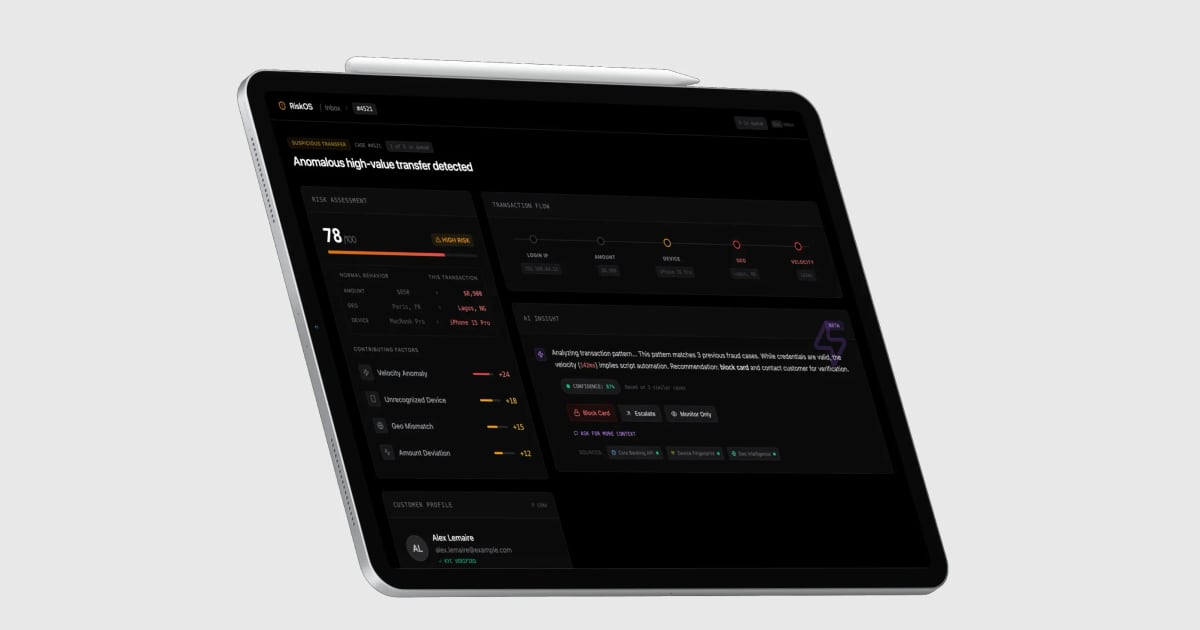
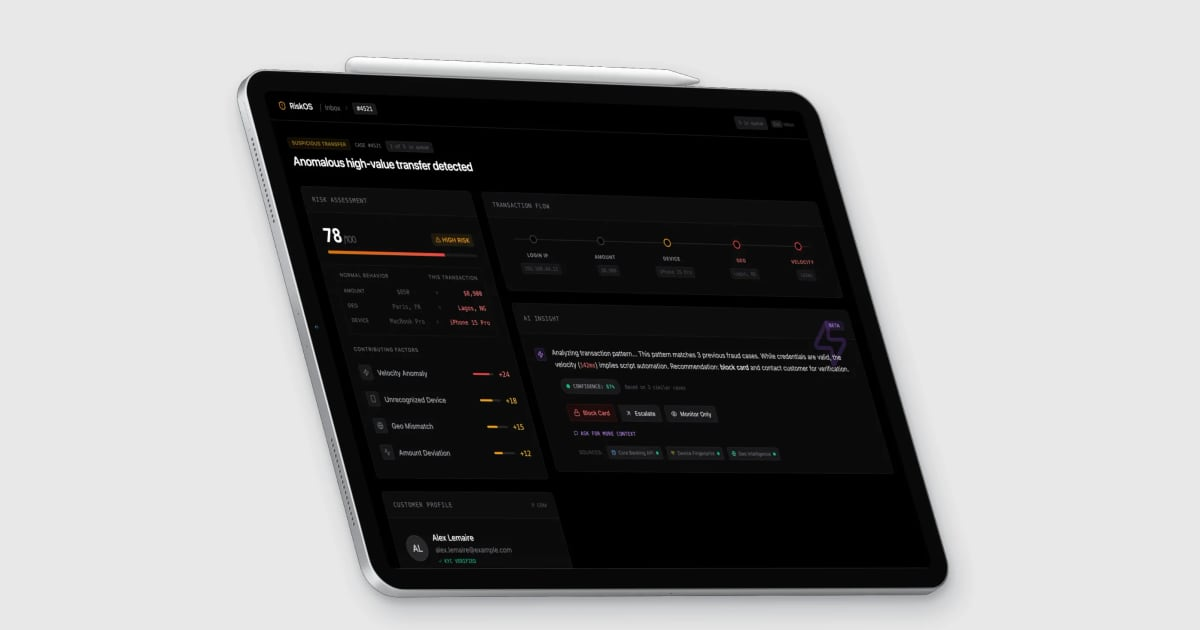
RiskOS on the home strip: whole iPad above the caption, soft cast shadow
- New cover (cover-riskos-ipad-v2): the iPad cut out of its dark ground with two soft shadows under it (ambient and contact), on the stage grey; variants, share image regenerated.
- Home strip: RiskOS framed whole (stripFit contain, smaller, up and to the right) as a transparent cut-out, so the card's own ground shows and no fade crosses the iPad; other cards unchanged.
- HeroLoop projects the screen loop on the picture where the frame draws it (fit, padding, object-position), so the loop stays in the screen whatever the framing.

diff --git a/src/components/media/HeroLoop.tsx b/src/components/media/HeroLoop.tsx
@@ -113,17 +113,6 @@ const SCREEN_W = 1000
 
 export default function HeroLoop({ src, mediaClassName, mediaStyle, mode = 'preview', active = false, screen, overlay }: HeroLoopProps) {
   const wrapRef = useRef<HTMLDivElement>(null)
-  // Size of the frame, for a loop projected onto a screen in perspective
-  const [box, setBox] = useState<{ w: number; h: number } | null>(null)
-  useEffect(() => {
-    const el = wrapRef.current
-    if (!screen || !el) return
-    const measure = () => setBox({ w: el.clientWidth, h: el.clientHeight })
-    measure()
-    const observer = new ResizeObserver(measure)
-    observer.observe(el)
-    return () => observer.disconnect()
-  }, [screen])
 
   // Where the cover picture is drawn inside the frame (its fit and padding), for screens animated in code.
   // Layout values (offset, client size), so the hover zoom does not change the measure.
@@ -131,7 +120,7 @@ export default function HeroLoop({ src, mediaClassName, mediaStyle, mode = 'prev
   useEffect(() => {
     const wrap = wrapRef.current
     const img = wrap?.parentElement?.querySelector<HTMLImageElement>('img')
-    if (!overlay || !wrap || !img) return
+    if ((!overlay && !screen) || !wrap || !img) return
     const measure = () => {
       if (!img.naturalWidth) return
       const cs = getComputedStyle(img)
@@ -139,7 +128,9 @@ export default function HeroLoop({ src, mediaClassName, mediaStyle, mode = 'prev
       const cw = img.clientWidth - pl - pr, ch = img.clientHeight - pt - pb
       const scale = (cs.objectFit === 'cover' ? Math.max : Math.min)(cw / img.naturalWidth, ch / img.naturalHeight)
       const w = img.naturalWidth * scale, h = img.naturalHeight * scale
-      setPicture({ x: img.offsetLeft - wrap.offsetLeft + pl + (cw - w) / 2, y: img.offsetTop - wrap.offsetTop + pt + (ch - h) / 2, w, h })
+      // object-position as shares of the free space (computed style gives percentages; 50% 50% by default)
+      const [px, py] = cs.objectPosition.split(' ').map((v) => (v.endsWith('%') ? parseFloat(v) / 100 : 0.5))
+      setPicture({ x: img.offsetLeft - wrap.offsetLeft + pl + (cw - w) * px, y: img.offsetTop - wrap.offsetTop + pt + (ch - h) * (py ?? px), w, h })
     }
     measure()
     img.addEventListener('load', measure)
@@ -149,7 +140,7 @@ export default function HeroLoop({ src, mediaClassName, mediaStyle, mode = 'prev
       img.removeEventListener('load', measure)
       observer.disconnect()
     }
-  }, [overlay])
+  }, [overlay, screen])
   const videoRef = useRef<HTMLVideoElement>(null)
 
   const [idle, setIdle] = useState(false)
@@ -383,7 +374,7 @@ export default function HeroLoop({ src, mediaClassName, mediaStyle, mode = 'prev
     <div ref={wrapRef} aria-hidden="true" className="pointer-events-none absolute inset-0">
       {screen
         ? mounted &&
-          box && (
+          picture && (
             // A layer the size of the frame carries the fade and the hover zoom; inside it, the video is laid
             // onto the screen of the device, at the angle of the picture
             <div className={frameClass} style={{ ...frameStyle, objectFit: undefined }}>
@@ -396,7 +387,8 @@ export default function HeroLoop({ src, mediaClassName, mediaStyle, mode = 'prev
                   transform: quadMatrix(
                     SCREEN_W,
                     SCREEN_W / screen.ratio,
-                    screen.corners.map(([x, y]) => [x * box.w, y * box.h] as [number, number]),
+                    // corners are shares of the cover picture, wherever the frame draws it (fit, padding)
+                    screen.corners.map(([x, y]) => [picture.x + x * picture.w, picture.y + y * picture.h] as [number, number]),
                   ),
                 }}
               >

diff --git a/src/components/sections/ProjectFilmstrip.tsx b/src/components/sections/ProjectFilmstrip.tsx
@@ -223,15 +223,23 @@ export default function ProjectFilmstrip({ lang }: ProjectFilmstripProps) {
           const quote = quotes[project.id] ?? null
           const titleId = `filmstrip-${project.id}-title`
           const summaryId = `filmstrip-${project.id}-summary`
-          const srcSet = coverSrcSet(shell.visual)
-          const photo = shell.fit === 'cover'
-          const bleed = shell.fit === 'bleed'
+          const srcSet = coverSrcSet((shell.stripVisual ?? shell.visual))
+          const fit = shell.stripFit ?? shell.fit
+          const photo = fit === 'cover'
+          const bleed = fit === 'bleed'
+          // A device framed whole in the card keeps its lower edge: no ground fade over it
+          const fade = !shell.stripFit
           // Light text on photographs (dark veil) and on dark grounds, dark text on light grounds
           const light = photo || isDarkGround(shell.tone)
           const video = HERO_VIDEOS[project.id]
           // The picture and the loop share one framing, so the video starts exactly where the picture was
           const mediaClass = `w-full h-full ${video ? HERO_HOVER_ZOOM : 'transition-transform duration-300 ease-media [@media(hover:hover)]:group-hover:scale-[1.02]'} ${
-            shell.fit === 'cover' || shell.fit === 'bleed' ? 'object-cover' : 'object-contain p-[4%] pb-[12%] md:pb-[14%]'
+            fit === 'cover' || fit === 'bleed'
+              ? 'object-cover'
+              : shell.stripFit
+                ? // a whole device kept clear of the caption: smaller, up and to the right of the card
+                  'object-contain object-[100%_0%] p-[4%] pb-[24%] pl-[32%] md:pb-[22%]'
+                : 'object-contain p-[4%] pb-[12%] md:pb-[14%]'
           }`
           const mediaStyle: React.CSSProperties = {
             transitionTimingFunction: easing,
@@ -249,10 +257,10 @@ export default function ProjectFilmstrip({ lang }: ProjectFilmstripProps) {
               style={{ backgroundColor: shell.tone, transitionTimingFunction: easing }}
             >
               <img
-                src={shell.visual}
+                src={(shell.stripVisual ?? shell.visual)}
                 srcSet={srcSet}
                 sizes={srcSet ? '(min-width: 1450px) 1215px, 86vw' : undefined}
-                {...imgDims(shell.visual)}
+                {...imgDims((shell.stripVisual ?? shell.visual))}
                 alt=""
                 draggable={false}
                 loading={i < 2 ? 'eager' : 'lazy'}
@@ -271,7 +279,7 @@ export default function ProjectFilmstrip({ lang }: ProjectFilmstripProps) {
                   dark veil for photographs), so the caption reads as part of the picture. A bleed
                   picture runs under the whole caption (summary and tags included), so its fade is
                   taller and stays solid behind the text before it lets the devices through. */}
-              <div
+              {fade && <div
                 aria-hidden="true"
                 className={`pointer-events-none absolute inset-x-0 bottom-0 z-[2] ${bleed ? 'h-[46%] sm:h-[68%]' : 'h-[46%]'}`}
                 style={{
@@ -281,7 +289,7 @@ export default function ProjectFilmstrip({ lang }: ProjectFilmstripProps) {
                       ? `linear-gradient(to top, ${shell.tone} 56%, ${shell.tone}00 100%)`
                       : `linear-gradient(to top, ${shell.tone} 12%, ${shell.tone}00 100%)`,
                 }}
-              />
+              />}
 
               {/* Hover: a white pill with an arrow, top right, like the case study cards of the reference.
                   Only where a pointer can hover; the whole card is already the link. */}

diff --git a/src/data/caseStudyShell.ts b/src/data/caseStudyShell.ts
@@ -17,6 +17,10 @@ export interface CaseStudyShell {
   visual: string
   tone: string
   fit?: 'contain' | 'cover' | 'bleed'
+  /** Framing on the home strip when it differs: `contain` keeps the whole device above the caption, without the ground fade */
+  stripFit?: 'contain'
+  /** Picture for the home strip when it differs (a cut-out on a transparent ground, so the card's own ground shows) */
+  stripVisual?: string
   position?: string
 }
 
@@ -98,8 +102,11 @@ export const CASE_STUDY_SHELL: Record<string, CaseStudyShell> = {
   },
   riskos: {
     client: 'RiskOS',
-    visual: '/images/riskos/cover-riskos-ipad.webp',
+    visual: '/images/riskos/cover-riskos-ipad-v2.webp',
     tone: '#E8E8E8',
     fit: 'bleed',
+    // On the home strip the iPad stays whole: framed in the card, no fade over its lower edge
+    stripFit: 'contain',
+    stripVisual: '/images/riskos/cover-riskos-ipad-v2-cutout.webp',
   },
 }

diff --git a/src/data/heroVideos.ts b/src/data/heroVideos.ts
@@ -48,7 +48,7 @@ export const HERO_VIDEOS: Record<string, HeroVideo> = {
   // The video animates the phone; the tablet and the laptop are animated in code (PagesJaunesScreens)
   pagesjaunes: { src: '/videos/hero/pagesjaunes-v2.mp4', overlay: 'pagesjaunes' },
   dailymotion: { src: '/videos/hero/dailymotion-v2.mp4' },
-  // iPad Pro 11 in perspective (cover-riskos-ipad.webp, 2200 × 1467): corners measured on the picture
+  // iPad Pro 11 in perspective (cover-riskos-ipad-v2.webp, 2200 × 1467): corners measured on the picture
   riskos: {
     src: '/videos/hero/riskos.mp4',
     screen: { corners: [[325 / 2200, 212 / 1467], [1567 / 2200, 257 / 1467], [1865 / 2200, 1320 / 1467], [632 / 2200, 1325 / 1467]], ratio: 1.43 },

diff --git a/src/data/imageDimensions.ts b/src/data/imageDimensions.ts
@@ -430,7 +430,8 @@ export const IMAGE_DIMENSIONS: Record<string, [number, number]> = {
   "/images/riskos/05-inbox-session.png": [3840, 2160],
   "/images/riskos/ship-to-show-hero.png": [2400, 1254],
   "/images/riskos/thubmnail_riskos_dark.webp": [2200, 1467],
-  "/images/riskos/cover-riskos-ipad.webp": [2200, 1467],
+  "/images/riskos/cover-riskos-ipad-v2.webp": [2200, 1467],
+  "/images/riskos/cover-riskos-ipad-v2-cutout.webp": [2200, 1467],
   "/images/screenshot_gemini_website.webp": [1485, 8093],
   "/images/sketches services/01 - image-hand-on execution.webp": [1536, 1024],
   "/images/sketches services/02 - workshop product vision.webp": [1536, 1024],

diff --git a/src/data/projectsData.tsx b/src/data/projectsData.tsx
@@ -196,7 +196,7 @@ export const getAllProjects = (lang: Language): Project[] => {
         : ["Prototype fonctionnel", "6 flux d'interaction", "Comparatif avant/après", "Schéma de flux de données", "Métriques de session"],
       icon: <ShieldCheck size={24} />,
       color: "blue",
-      coverImage: "/images/riskos/cover-riskos-ipad.webp",
+      coverImage: "/images/riskos/cover-riskos-ipad-v2.webp",
       externalLink: "https://riskos.vercel.app",
       status: "experiment",
       cardBg: "#111113"

diff --git a/src/utils/coverSrcSet.ts b/src/utils/coverSrcSet.ts
@@ -13,7 +13,7 @@ const RESPONSIVE_COVERS = new Set([
   '/images/francevae/thumbnail_france_vae.webp',
   '/images/pagesjaunes/Android%20wear/android_wear_thumbnail%2002.webp',
   '/images/pagesjaunes/Android%20wear/pj%20android%20wear%20ui%20modes.webp',
-  '/images/riskos/cover-riskos-ipad.webp',
+  '/images/riskos/cover-riskos-ipad-v2.webp',
   '/images/tessan/cover_tessan_app_v3.webp',
   '/images/tessan/cover_tessan_hub_v6.webp',
   '/images/tessan/cover_tessan_os.webp',
